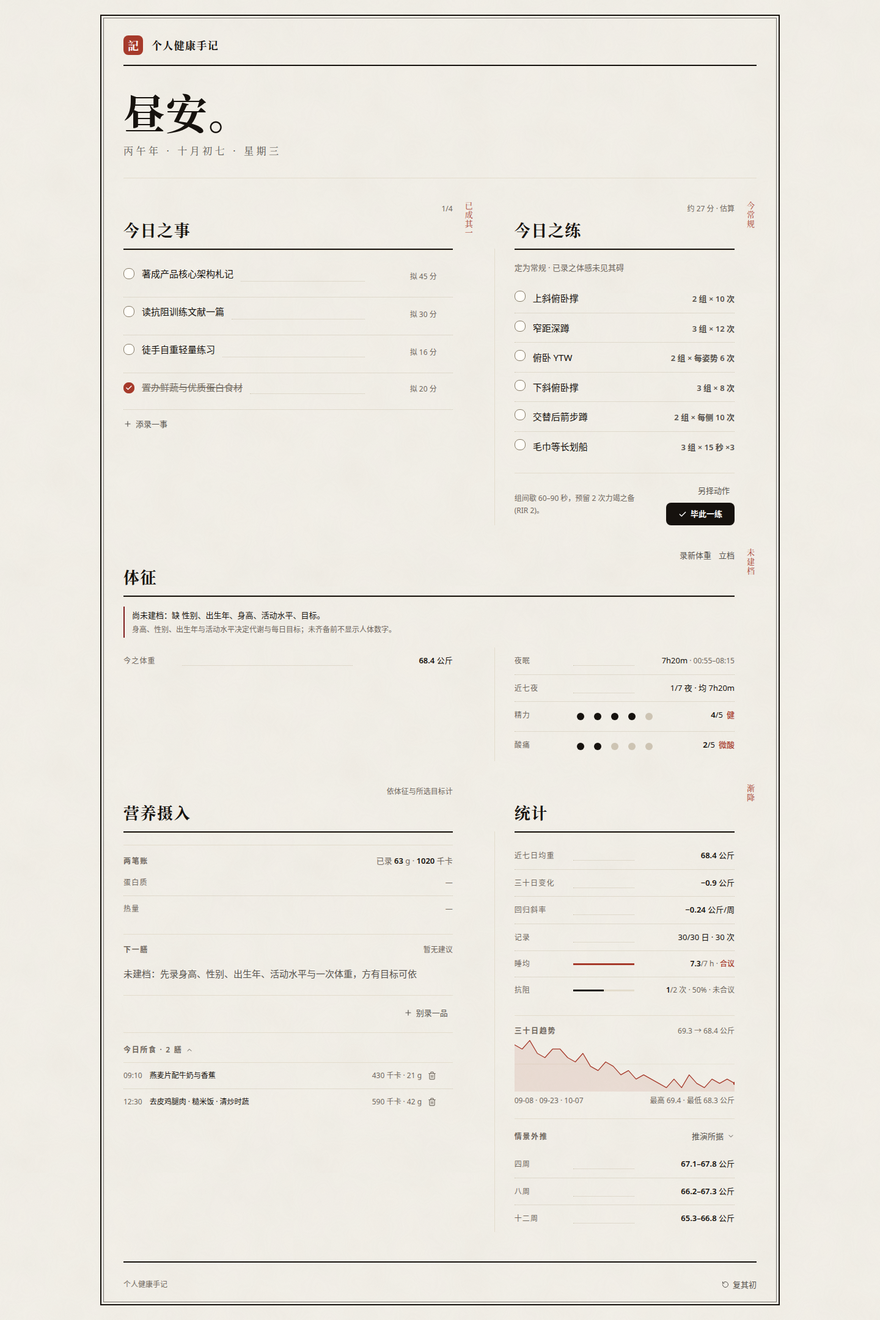
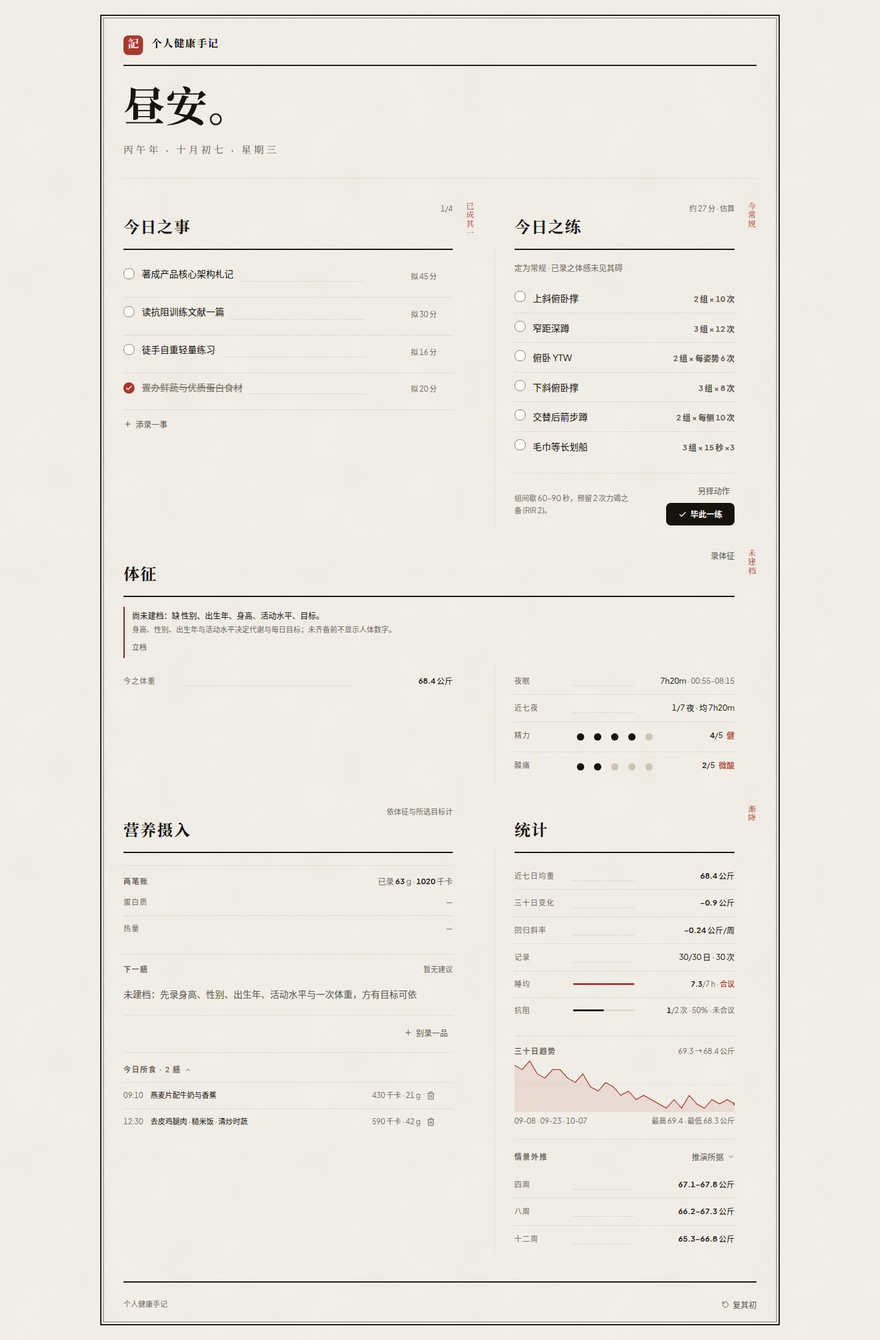
refactor(ui): 体征录入三改——体感去重、立档入口随常量、入口改名「录体征」
用户三点意见：

- 体感去重：精力/酸痛撤出「录体征」表，首页「今日体感」点按即调是
  唯一录入点；表单不传即保首页所点（mock/supabase 合并语义均为
  input.energy ?? 既存，已核），RecordDefaults 体感字段与预填随删
- 立档挪位：眉行右注只留「目标 + 录体征」——未建档「立档」入体征
  警示框贴缺项之告、已建档「改档」随「档案所录」组题右端；动数入口
  在上、常量入口随常量，两钮不再并列挤于一处
- 入口与表题相配：录新体重 → 录体征（表收体重/腰围/眠/随笔，非单录
  体重）；e2e 改点新入口，layoutContract 增三断言（体感不入表、
  入口与表题相配、眉行不含立档/改档），README 条目 27 / DESIGN 同步

验证：9 套测试 + tsc + build + e2e 全断言真 + accept-check 15/15 +
探针 6 档全 PASS + detect 维持基线 5 项 report-only 零新增；v7 三帧
截图验位（警示框立档 / 档案所录改档 / 表内无体感）。

diff --git a/src/components/BodySheet.tsx b/src/components/BodySheet.tsx
@@ -1,12 +1,12 @@
 // 体征表：录体征。录事三表之一（另有 MealSheet / WorkoutSheet），壳与组题由 SheetShell 共出。
-// 只收会变之数（体重、腰围、眠、体感、随笔）；常量（身高、出生年等）归立档表，两处不得混收。
+// 只收会变之数（体重、腰围、眠、随笔）；常量（身高、出生年等）归立档表，两处不得混收。
+// 体感（精力/酸痛）不在本表重复录入——首页「今日体感」点按即调，同源同词表。
 // deslop-ignore-file 07 22 28
 import React, { useEffect, useMemo, useRef, useState } from 'react';
 import { AlertTriangle } from 'lucide-react';
 import type { CreateDailyStateInput, SleepEntry } from '../types/health';
 import { intervalMinutes } from '../domain/sleep';
 import { formatNightDuration } from '../domain/format';
-import { DotScale, energyWord, sorenessWord } from './DotScale';
 import { Group, INPUT, RecordDefaults, SheetShell } from './SheetShell';
 
 interface BodySheetProps {
@@ -31,9 +31,6 @@ export const BodySheet: React.FC<BodySheetProps> = ({ isOpen, onClose, onSave, d
   const [sleepStart, setSleepStart] = useState('');
   const [wakeTime, setWakeTime] = useState('');
   const [sleepMinutes, setSleepMinutes] = useState<number | ''>('');
-  // 体感两点：与首页「今日体感」同控件同词表
-  const [energy, setEnergy] = useState<number | null>(null);
-  const [soreness, setSoreness] = useState<number | null>(null);
   const [stateNotes, setStateNotes] = useState('');
   /** 空录之戒：一无所有时给一句提示,不发空请求。 */
   const [hint, setHint] = useState<string | null>(null);
@@ -54,8 +51,6 @@ export const BodySheet: React.FC<BodySheetProps> = ({ isOpen, onClose, onSave, d
     setWakeTime(d?.wakeTime ?? '');
     setSleepMinutes(d?.sleepMinutes ?? '');
     setSleepMode(d?.sleepStart && d?.wakeTime ? 'interval' : d?.sleepMinutes ? 'duration' : 'interval');
-    setEnergy(d?.energy ?? null);
-    setSoreness(d?.soreness ?? null);
     setStateNotes(d?.note ?? '');
     setHint(null);
   };
@@ -105,8 +100,6 @@ export const BodySheet: React.FC<BodySheetProps> = ({ isOpen, onClose, onSave, d
       (typeof waistCm === 'number' && waistCm > 0) ||
       sleepIntervalValid ||
       (sleepMode === 'duration' && typeof sleepMinutes === 'number' && sleepMinutes > 0) ||
-      energy !== null ||
-      soreness !== null ||
       stateNotes.trim() !== '';
     if (!hasAny) {
       setHint('此页尚无一录可入——填得一项再照准。');
@@ -123,11 +116,9 @@ export const BodySheet: React.FC<BodySheetProps> = ({ isOpen, onClose, onSave, d
 
     const saved = await onSave(
       {
-        // 未填则不写：不把默认值当记录
+        // 未填则不写：不把默认值当记录。体感（精力/酸痛）不在本表——不传即保首页所点之值
         weight: typeof weight === 'number' && weight > 0 ? weight : undefined,
         sleep,
-        energy: energy ?? undefined,
-        soreness: soreness ?? undefined,
         notes: stateNotes,
       },
       typeof waistCm === 'number' && waistCm > 0 ? waistCm : undefined
@@ -147,7 +138,7 @@ export const BodySheet: React.FC<BodySheetProps> = ({ isOpen, onClose, onSave, d
       hint={hint}
       submitLabel={weightNeedsAck ? '仍要录之' : '照准'}
       draftKey="phc_draft_body"
-      getDraft={() => ({ weight, waistCm, sleepMode, sleepStart, wakeTime, sleepMinutes, energy, soreness, stateNotes })}
+      getDraft={() => ({ weight, waistCm, sleepMode, sleepStart, wakeTime, sleepMinutes, stateNotes })}
       applyDraft={(d) => {
         setWeight(typeof d.weight === 'number' ? d.weight : '');
         setWaistCm(typeof d.waistCm === 'number' ? d.waistCm : '');
@@ -155,8 +146,6 @@ export const BodySheet: React.FC<BodySheetProps> = ({ isOpen, onClose, onSave, d
         if (typeof d.sleepStart === 'string') setSleepStart(d.sleepStart);
         if (typeof d.wakeTime === 'string') setWakeTime(d.wakeTime);
         setSleepMinutes(typeof d.sleepMinutes === 'number' ? d.sleepMinutes : '');
-        setEnergy(typeof d.energy === 'number' ? d.energy : null);
-        setSoreness(typeof d.soreness === 'number' ? d.soreness : null);
         if (typeof d.stateNotes === 'string') setStateNotes(d.stateNotes);
         setWeightAck(false);
         setHint(null);
@@ -282,26 +271,7 @@ export const BodySheet: React.FC<BodySheetProps> = ({ isOpen, onClose, onSave, d
           </div>
         </div>
 
-        {/* 体感两点：与首页「今日体感」同控件同词表 */}
-        <div className="pt-3.5 mt-1 border-t border-dotted border-linehover">
-          <span className="group-head">体感</span>
-          <div className="mt-2.5 space-y-3">
-            <div className="flex items-center justify-between gap-3">
-              <label className="text-ink3">
-                精力（1=惫，5=甚充沛）
-                {energy === null ? '：未录' : `：${energy}/5 ${energyWord(energy)}`}
-              </label>
-              <DotScale value={energy} onChange={setEnergy} label="精力" />
-            </div>
-            <div className="flex items-center justify-between gap-3">
-              <label className="text-ink3">
-                酸痛（1=无恙，5=沉痛）
-                {soreness === null ? '：未录' : `：${soreness}/5 ${sorenessWord(soreness)}`}
-              </label>
-              <DotScale value={soreness} onChange={setSoreness} label="酸痛" />
-            </div>
-          </div>
-        </div>
+        {/* 体感（精力/酸痛）不在此录——首页「今日体感」点按即调，表单不重复收 */}
 
         <div className="pt-3.5 mt-1 border-t border-dotted border-linehover">
           <label htmlFor="rs-notes" className="group-head">随笔（可无）</label>

diff --git a/src/components/BodySection.tsx b/src/components/BodySection.tsx
@@ -59,11 +59,6 @@ export const BodySection: React.FC<BodySectionProps> = ({
 }) => {
   const night = sleep.today;
   const activity = body.activityLevel ? ACTIVITY_CN[body.activityLevel] : null;
-  const editButton = (
-    <button onClick={onEditProfile} className="btn-link">
-      {body.complete ? '改档' : '立档'}
-    </button>
-  );
 
   return (
     <section className="pt-10">
@@ -75,10 +70,10 @@ export const BodySection: React.FC<BodySectionProps> = ({
           note={
             <span className="flex items-center gap-3 text-[12px] text-ink3">
               {goal && <span>目标 {GOAL_CN[goal] ?? goal}</span>}
+              {/* 入口与表题相配：开的是「录体征」（体重/腰围/眠/随笔），非单录体重 */}
               <button onClick={onEditWeight} className="btn-link">
-                录新体重
+                录体征
               </button>
-              {editButton}
             </span>
           }
         />
@@ -93,6 +88,12 @@ export const BodySection: React.FC<BodySectionProps> = ({
             </p>
             <p className="mt-1 text-[12px] text-ink3">
               身高、性别、出生年与活动水平决定代谢与每日目标；未齐备前不显示人体数字。
+            </p>
+            {/* 立档贴未建档之告（常量入口随常量之缺），不与「录体征」并列挤于眉行 */}
+            <p className="mt-1.5">
+              <button onClick={onEditProfile} className="btn-link text-[12px]">
+                立档
+              </button>
             </p>
           </div>
         )}
@@ -134,7 +135,13 @@ export const BodySection: React.FC<BodySectionProps> = ({
 
           {body.complete && (
             <div className="pt-3.5 mt-1 border-t border-dotted border-linehover">
-              <span className="group-head">档案所录</span>
+              {/* 改档贴「档案所录」常量组（动数入口在上、常量入口随常量，互不并列） */}
+              <div className="flex items-baseline justify-between">
+                <span className="group-head">档案所录</span>
+                <button onClick={onEditProfile} className="btn-link text-[12px]">
+                  改档
+                </button>
+              </div>
               <div className="mt-1">
                 <Row label="身高 · 性别">
                   {body.heightCm} · {body.sex ? SEX_CN[body.sex] : '—'} · {body.ageYears ?? '—'} 岁

diff --git a/src/tests/layoutContract.test.ts b/src/tests/layoutContract.test.ts
@@ -160,9 +160,9 @@ assert(read(resolve(root, 'README.md')).includes('术语与口径'), 'README 承
 
 // --- 9. 刊头/入口不留冗余（第 17 条） ------------------------------------------
 const header = comp('HeaderGreeting.tsx');
-assert(!header.includes('<button'), '刊头不放动作按钮（录入入口分归各节就地按钮：录新体重/另择动作/别录一品）');
+assert(!header.includes('<button'), '刊头不放动作按钮（录入入口分归各节就地按钮：录体征/另择动作/别录一品）');
 assert(!copyOf(header).includes('日省吾身'), '刊头不写副题式自我说明');
-assert(!app.includes('记一笔'), '全局 FAB「记一笔」已撤：录入入口分归各节就地按钮（录新体重/另择动作/别录一品）');
+assert(!app.includes('记一笔'), '全局 FAB「记一笔」已撤：录入入口分归各节就地按钮（录体征/另择动作/别录一品）');
 assert(!app.includes('pb-32'), '页面不再为 FAB 预留底部让位');
 assert(!existsSync(resolve(compDir, 'EvidenceModal.tsx')), '稽核弹窗已删除（无入口的组件不留死代码）');
 for (const f of componentFiles) {
@@ -176,6 +176,19 @@ assert(
   '档案表只收常量：会变之数不得混入立档/改档表'
 );
 assert(comp('BodySheet.tsx').includes('腰围'), '会变之数（腰围）归体征表，与常量分表');
+assert(
+  !copyOf(comp('BodySheet.tsx')).includes('精力') && !copyOf(comp('BodySheet.tsx')).includes('酸痛'),
+  '体感不重复录入：精力/酸痛首页点按即调，体征表不收'
+);
+assert(
+  copyOf(comp('BodySection.tsx')).includes('录体征') && !copyOf(comp('BodySection.tsx')).includes('录新体重'),
+  '入口与表题相配：体征入口作「录体征」（表内是体重/腰围/眠，非单录体重）'
+);
+const bodyNote = /note=\{([\s\S]*?)\n\s{8,}\}/.exec(comp('BodySection.tsx'))?.[1] ?? '';
+assert(
+  bodyNote.includes('录体征') && !bodyNote.includes('立档') && !bodyNote.includes('改档'),
+  '眉行只留录入入口；立档随未建档警示、改档随「档案所录」，不与录体征并列挤于一处'
+);
 assert(
   !copyOf(comp('MealSheet.tsx')).includes('餐别'),
   '餐别选择已撤（其值由保存时刻的时钟判定），不得复辟为用户选择'

diff --git a/src/App.tsx b/src/App.tsx
@@ -227,8 +227,7 @@ export default function App() {
       wakeTime: todayData.sleep.today?.wakeTime,
       sleepMinutes:
         todayData.sleep.today?.source === 'duration' ? todayData.sleep.today.minutes : undefined,
-      energy: todayData.state.energy,
-      soreness: todayData.state.soreness,
+      // 体感（精力/酸痛）不进表单：首页点按即调，表不重复收、亦不回填
       note: todayData.state.notes,
       // 腰围：会变之数预填档中所存（未改动即不重写）
       waistCm: todayData.profile.waistCm ?? undefined,
@@ -669,7 +668,7 @@ export default function App() {
         </div>
       </main>
 
-      {/* 录入入口全部就地：体征·录新体重 / 今日之练·另择动作 / 营养·别录一品，
+      {/* 录入入口全部就地：体征·录体征 / 今日之练·另择动作 / 营养·别录一品，
           各开本域独立之表；全局记账 FAB 已撤，入口不聚一处 */}
 
       {/* 录事三表各自独立（共用 SheetShell 之壳），无页签互跳 */}

diff --git a/src/components/SheetShell.tsx b/src/components/SheetShell.tsx
@@ -15,8 +15,6 @@ export interface RecordDefaults {
   sleepStart?: string;
   wakeTime?: string;
   sleepMinutes?: number;
-  energy?: number;
-  soreness?: number;
   /** 今日已有的随笔（有则预填，不被空提交抹掉）。 */
   note?: string;
   /** 档中现有腰围（预填显示；未改动即不重写档）。 */

diff --git a/README.md b/README.md
@@ -21,10 +21,10 @@
 | **刊头与序** | 印章报头与存储标识；「朝安 / 昼安 / 夜安」时段问候 + 干支日期行——只留问候与日期，今日状况不在刊头重复；一键唤起录事 |
 | **今日之事** | 今日待办（增 / 删 / 勾选），行内「添录一事」速记；每事「拟时长」可随手改、可直清（1–720 分整数，清后行内显示「拟时长 —」）；完成率只由 `status` 决定 |
 | **今日之练** | 与「今日之事」同一配对行（桌面折缝分栏，移动端相随）：按睡眠、精力、酸痛、今日是否已练判定训练状态（REST / RECOVERY / LIGHT / NORMAL），课表由**肌群账本 + 既往历史 + 每日时间预算**智能搭配组合，时长与恢复指引同列；可就地改每行动作、组数与次数 |
-| **体征（通栏）** | 只收**原始事实**，不放示数：今之体重与「录新体重」、建档所录（身高 / 性别 / 岁 / 活动水平 / 腰围）、夜眠**由就寝/起身时刻推得**与近七夜（只按有记录夜数平均）、精力 (1–5)、酸痛 (1–5) 圆点（`DotScale`，点按即调）；数据待核朱批集中于此；未建档只显示缺什么，绝不拿演示数据冒充 |
+| **体征（通栏）** | 只收**原始事实**，不放示数：今之体重与「录体征」入口、建档所录（身高 / 性别 / 岁 / 活动水平 / 腰围）、夜眠**由就寝/起身时刻推得**与近七夜（只按有记录夜数平均）、精力 (1–5)、酸痛 (1–5) 圆点（`DotScale`，点按即调）；数据待核朱批集中于此；未建档只显示缺什么，绝不拿演示数据冒充。**精力/酸痛只在本页点按即调**——「录体征」表不重复收 |
 | **营养摄入（配对行二 · 左）** | **依个人体征与饮食目标算出今日之标**：每日热量、每日蛋白（1.4–2.0 g/kg 区间）、每日脂肪与碳水，练日按「×1.1 且至多 +400」上浮（标「练日」）；两笔账（**未达「尚余」、超出「已超」**）、下一膳（基于已摄入缺口排序推荐，给出**热量与蛋白质区间**，「照准」一键入账）、今日所食逐条「掷还」 |
 | **统计（配对行二 · 右）** | 一切**算出来的数**集中于此：体重指数（WHO 分类）、静息代谢（Mifflin-St Jeor）、总消耗（RMR×PAL）、每周抗阻处方；趋势与均值——近七日均重（留一基线）、三十日变化（端点）与回归斜率**分列**、记录（有效日/原始条数）、睡均与本周抗阻对照 AASM / WHO 合议；附三十日趋势折线（**全页唯一图表**）与情景外推（四周/八周/十二周，`scenario_trend_projection`，标注模型版本与依据日数，数据存疑即暂阙） |
-| **录事三表（共用一壳）** | 三张**各自独立**的表单——「录一膳」`MealSheet` / 「录一练」`WorkoutSheet` / 「录体征」`BodySheet`，共用 `SheetShell`（同版框、同回执），**无页签无「录一笔」、按本域定宽、常规内容一屏放下**（无表内下拉）。**进食表内嵌食物营养档案库**（115 品、每 100g 的热量/蛋白质/脂肪），搜名即现、点选自动回填克数与约计；文本框下另有「＋库中择品」——点开**三列名称下滑栏**免打字直选（档案库只在录入时出现，不占主页）；**不再问「餐别」**——类属由保存时刻的时钟判定（与快录同源）。**入口分就地**：体征·录新体重 / 今日之练·另择动作 / 营养·别录一品，各开本域之表；**无全局 FAB「记一笔」** |
+| **录事三表（共用一壳）** | 三张**各自独立**的表单——「录一膳」`MealSheet` / 「录一练」`WorkoutSheet` / 「录体征」`BodySheet`，共用 `SheetShell`（同版框、同回执），**无页签无「录一笔」、按本域定宽、常规内容一屏放下**（无表内下拉）。**进食表内嵌食物营养档案库**（115 品、每 100g 的热量/蛋白质/脂肪），搜名即现、点选自动回填克数与约计；文本框下另有「＋库中择品」——点开**三列名称下滑栏**免打字直选（档案库只在录入时出现，不占主页）；**不再问「餐别」**——类属由保存时刻的时钟判定（与快录同源）。**入口分就地**：体征·录体征 / 今日之练·另择动作 / 营养·别录一品，各开本域之表（入口文字与表题相配）；**无全局 FAB「记一笔」** |
 | **决策痕迹（数据层）** | 引擎每次推荐都产出 `trace`（输入快照 / 推导值 / 前提 / 局限）与 `evidenceTraces`（证据出处）；页面不再设稽核弹窗，口径与阈值见本文件「术语与口径」 |
 | **复其初** | 页脚一键恢复到初始的三十日模拟数据 |
 
@@ -137,7 +137,7 @@ src/
 - **仿真古书纸与版框**：`body` 以 `--color-paper` 为底，叠两层内联 SVG 噪点（纤维纹 6% + 陈化斑驳 7%，不用氛围渐变）做纸张质感；全页内容入「外粗内细」双线版框（`border-2` 外框 + `border/55` 内线），刊头、正文与页脚同框；区块只以墨色粗细线与点线分隔，数值一律入句。
 - **全页只留一张图表，其余数字入句**：唯一图表是 30 日体重折线（`TodayData.weightSeries`，手画 SVG，来自真实记录、不造序列）；摄入、趋势、预测区间都写成手记行文，精力与酸痛用两行对齐的 1–5 圆点点按——**没有 KPI 卡、没有瓦片墙、没有环形进度**；比例信息只用**墨线计量条**（`RuleMeter`：3px 直角细线，底轨 `--color-line`，填充墨＝进行中 / 朱＝达标 / 绛＝超录，无圆角阴影渐变动画），百分比与分子分母一律以真实文本入句（蛋白质 63/110 g · 57%、抗阻 2/2 · 100% · 合议、睡均 7.3/7 h）；睡眠只报达标与否、不给百分比。
 - **版式**：容器 1100px；**两处配对行**＝① 今日之事 ↔ 今日之练 ② 营养摄入 ↔ 统计（同为桌面 `lg:grid-cols-[1.45fr_auto_1fr]` 显式落位，各以一条 1px 折缝分栏，上下列缘对齐、两章横线跨栏同 y；两格同高，移动端纵排相随）；**体征为唯一通栏节**，夹于两行之间（`lg:pr-9` 留 36px 旁批槽；统计以「情景外推」组块收尾）。体征**内部改用配对行同网格**分两栏（`1.45fr | auto | 1fr` + 中缝，与上下行同 x 同轴，格内 `lg:pr-9` 使行值右缘与上下两栏逐像素对齐）；**左栏静动两组**——「今日之录」（今之体重 + 腰围，随日而变）与「档案所录」（身高·性别 + 活动水平，建档常量，点线分隔），右栏（夜眠/体感）不设组。**三处折缝均自章节头 2px 墨线起向下，不越黑线**（行折缝偏移 115px，体征折缝自墨线下的行区起；探针逐缝断言）。移动端单栏按 DOM 次序（今日之事 → 今日之练 → 体征 → 营养摄入 → 统计）。章节级动作统一收在章末「动作脚注行」（`.section-actions`），节内小标题用 `.group-head`。
-- **文案全取古风行文，不用现代白话**：时段问候作「朝安 / 昼安 / 夜安。」；章节作「下一膳 / 今日之练」，动作作「录之 / 罢 / 照准 / 毕此一练 / 览毕」，危险动作作「掷还」，报错作「膳食之录未成（code）」，反馈作「知道了 · 一事已列入今日之册」（成功回执一律冠「知道了 ·」，失败不冠），达标作「合议 / 未合议 · 尚差二日」，页脚只留报头与「复其初」；记录表单标签（所食之物 / 腰围 / 就寝 / 起身 / 精力 / 酸痛 …）同此体例。**保留不改的只有三类**：文献引文与 `claim`/`limitations`（`scientificEvidence.ts`，学术原貌即证据本身）、规则 ID 与 ASCII 单位符号（kcal / kg / AASM / RIR）、食物与练习的中文专名。
+- **文案全取古风行文，不用现代白话**：时段问候作「朝安 / 昼安 / 夜安。」；章节作「下一膳 / 今日之练」，动作作「录之 / 罢 / 照准 / 毕此一练 / 览毕」，危险动作作「掷还」，报错作「膳食之录未成（code）」，反馈作「知道了 · 一事已列入今日之册」（成功回执一律冠「知道了 ·」，失败不冠），达标作「合议 / 未合议 · 尚差二日」，页脚只留报头与「复其初」；记录表单标签（所食之物 / 腰围 / 就寝 / 起身 …）同此体例。**保留不改的只有三类**：文献引文与 `claim`/`limitations`（`scientificEvidence.ts`，学术原貌即证据本身）、规则 ID 与 ASCII 单位符号（kcal / kg / AASM / RIR）、食物与练习的中文专名。
 - 少量扫描器命中是**刻意保留**的（衬线标题、圆形控件、已完成事项的删除线、规则 ID 的等宽字、图表端点圆点），在源码里用 id 级注释标注原因，例如 `deslop-ignore-file 07 09`；现行扫描门禁为 `impeccable detect`（对运行页面）——5 项 report-only（暖纸底与主字体为本册定稿的自觉选择、章节头上下留白节奏 ×3），无破坏性发现。
 
 ### Visual Ralph 参考稿与实现偏差
@@ -344,6 +344,12 @@ npm run build
     - **Audit（16/20 Good）**：dark-glow 报告证伪（源码 0 处 `box-shadow`/`#ffba00`，焦点即 `index.css` 2px 墨环）；嵌套卡片为有意「版框」；真缺项即上述低对比 ×3（已修）；另证 dialog 内触点 ≥24、720×450（≈1440@200% 缩放）无横滚、组件 0 裸 hex、依赖恰 4。
     - **验收闸**：新增 `.shots/accept-check.mjs` **15/15**（归入行 / 焦点圈定 / inert / 遮罩拦稿 / 残稿回填与弃稿 / 回执读屏与归膳 / 存上即焚 / 390 一屏 / 占位 5.47 / 约算 / 空名之戒）；9 套测试 + `tsc` + `build` + e2e 全断言真 + qa-states + 探针 @1440/1023/768/640/390（另加验 360/1024/1280）全 PASS；detect 维持基线 5 项 report-only 零新增；截图 `.shots/v6-{desktop,mobile,form-meal,guard,workout-390}.png`。
     - **未做（验收中议定延后）**：帮助/术语页内链接、全局快捷键、昨日复用、三录收束入口、开表聚焦首字段；单包代码分割（现 542 KB 警告仅 report-only）。
+
+27. **体征录入三改**（本轮，用户三点意见：体感去重 / 立档挪位 / 入口与表题相配）：
+    - **体感去重（第 1 点）**：精力/酸痛撤出「录体征」表——首页「今日体感」点按即调是**唯一录入点**；表单不传即保首页所点（mock 与 supabase 合并语义均 `input.energy ?? 既存`，已核），`RecordDefaults` 的体感字段与预填随删。
+    - **立档挪位（第 2 点）**：眉行右注只留「目标 + 录体征」；未建档作「**立档**」入体征警示框（贴缺项之告），已建档作「**改档**」随「**档案所录**」组题右端——动数入口在上、常量入口随常量，两钮不再并列挤于一处。
+    - **入口改名（第 3 点）**：录新体重 → **录体征**，与表题一致（表收体重 / 腰围 / 眠 / 随笔，非单录体重）；e2e、契约、README/DESIGN 随改；`layoutContract` 新增三断言——体感不入表、入口与表题相配、眉行不含立档/改档。
+    - **验证**：9 套测试 + `tsc` + `build` + e2e（入口改点「录体征」）+ accept-check + 六档探针全 PASS。
 
 ### 仍待补齐（真实项目的下一步）
 

diff --git a/DESIGN.md b/DESIGN.md
@@ -2,11 +2,11 @@
 
 ## Source of truth
 - Status: **Active**
-- Last refreshed: 2026-10-07（全面验收批：critique 28/40 → 五项优先级问题全修——Tab 焦点圈定 + 背景 `inert`、toast `aria-live`、占位符 5.47:1、遮罩拦稿 + sessionStorage 残稿回填、归膳明示；audit 16/20（dark-glow 证伪）；polish 收尾与 15/15 验收闸 `.shots/accept-check.mjs`。此前：2026-10-05 八点重构与用户三点意见修订）
+- Last refreshed: 2026-10-07（体征录入三改：体感去重、立档/改档入口随常量挪位、入口改名「录体征」与表题相配。同日此前：全面验收批——critique 28/40 → 五项优先级问题全修、audit 16/20（dark-glow 证伪）、polish 收尾与 15/15 验收闸；再此前：2026-10-05 八点重构与用户三点意见修订）
 - Primary product surfaces:
   - 单页主应用 `src/App.tsx`（刊头 → 配对行一（今日之事 ↔ 今日之练，折缝分栏） → 通栏体征 → 配对行二（营养摄入 ↔ 统计，情景外推收于其末） → 页脚，版框内单页流）
-  - 建档弹层 `src/components/ProfileSheet.tsx`（立档 / 改档：只收常量——性别·出生年·身高·活动水平·目标·每日训练时间预算；随日而变之数归体征表）
-  - 录事三表 `src/components/MealSheet.tsx` / `WorkoutSheet.tsx` / `BodySheet.tsx`（共用壳 `SheetShell.tsx`；录一膳 / 录一练 / 体征，各自独立、按本域内容定宽，无页签无「录一笔」；体征表另收腰围，进食表内嵌食物营养档案库搜选，库不上主页；餐别由保存时刻时钟判定，表内无此选择）
+  - 建档弹层 `src/components/ProfileSheet.tsx`（立档 / 改档：只收常量——性别·出生年·身高·活动水平·目标·每日训练时间预算；随日而变之数归体征表。**入口随常量**：未建档作「立档」入体征警示框、已建档作「改档」随「档案所录」组题，不与「录体征」并列挤于眉行）
+  - 录事三表 `src/components/MealSheet.tsx` / `WorkoutSheet.tsx` / `BodySheet.tsx`（共用壳 `SheetShell.tsx`；录一膳 / 录一练 / 体征，各自独立、按本域内容定宽，无页签无「录一笔」；体征表另收腰围，进食表内嵌食物营养档案库搜选，库不上主页；**体感（精力/酸痛）不入表**——首页点按即调是唯一录入点，表单不重复收亦不回填；餐别由保存时刻时钟判定，表内无此选择）
   - 比选稿 `docs/palette-options.html`（五版色组，当前选中其五）
   - 成稿截图 `.shots/v6-desktop.png`（1440 全页）、`.shots/v6-mobile.png`（390 全页）、`.shots/v6-form-meal.png`（归入行）、`.shots/v6-guard.png`（遮罩拦稿告知句）、`.shots/v6-workout-390.png`（390 录一练一屏）、`.shots/v5-*.png`（上一版三表开启态）、`.shots/v4-*.png` / `.shots/v3-*.png`（更早）、`.shots/za-mobile-*.png`（历史局部）
 - Evidence reviewed:
@@ -31,7 +31,7 @@
 
 ## Personas and jobs
 - Primary personas: 唯一用户——记录自己健康账目的中文使用者，桌面查、手机记。
-- User jobs: ① 今日要做什么、练什么（今日之事 ↔ 今日之练同一配对行，先看裁决再看清单）② 体征如何（体征通栏分两组——「今日之录」今之体重 + 腰围、「档案所录」身高·性别 + 活动水平；右栏睡眠、体感）③ 该吃多少、吃了多少（营养摄入：与统计同行，今日之标、两笔账、下一膳、所食账）④ 是否在正轨（统计：与营养摄入同行，派生数、趋势、合议、情景外推）⑤ 记录就地落笔（入口分归各节：体征·录新体重 / 今日之练·另择动作 / 营养·别录一品；无全局 FAB；三表各开各域独立之表单、共用 `SheetShell` 一壳，餐别不再问用户）。
+- User jobs: ① 今日要做什么、练什么（今日之事 ↔ 今日之练同一配对行，先看裁决再看清单）② 体征如何（体征通栏分两组——「今日之录」今之体重 + 腰围、「档案所录」身高·性别 + 活动水平；右栏睡眠、体感）③ 该吃多少、吃了多少（营养摄入：与统计同行，今日之标、两笔账、下一膳、所食账）④ 是否在正轨（统计：与营养摄入同行，派生数、趋势、合议、情景外推）⑤ 记录就地落笔（入口分归各节：体征·录体征 / 今日之练·另择动作 / 营养·别录一品，入口文字与表题相配；无全局 FAB；三表各开各域独立之表单、共用 `SheetShell` 一壳，餐别不再问用户）。
 - Key contexts of use: 桌面 1440 浏览全页；手机 390 单手速记；两者都要求扫读时先看到「裁决」再看到细节。
 
 ## Information architecture
